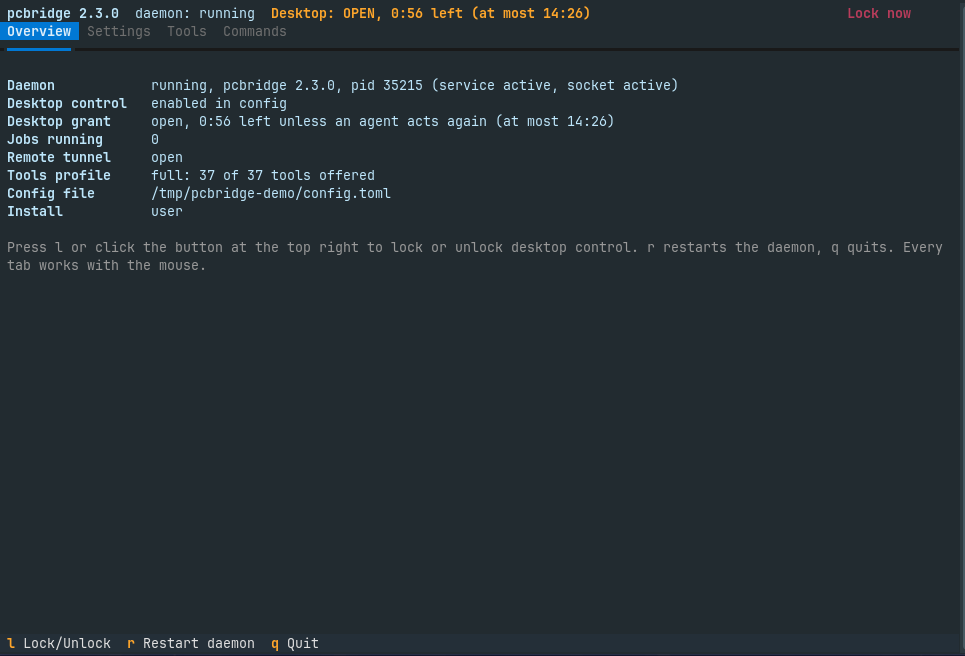
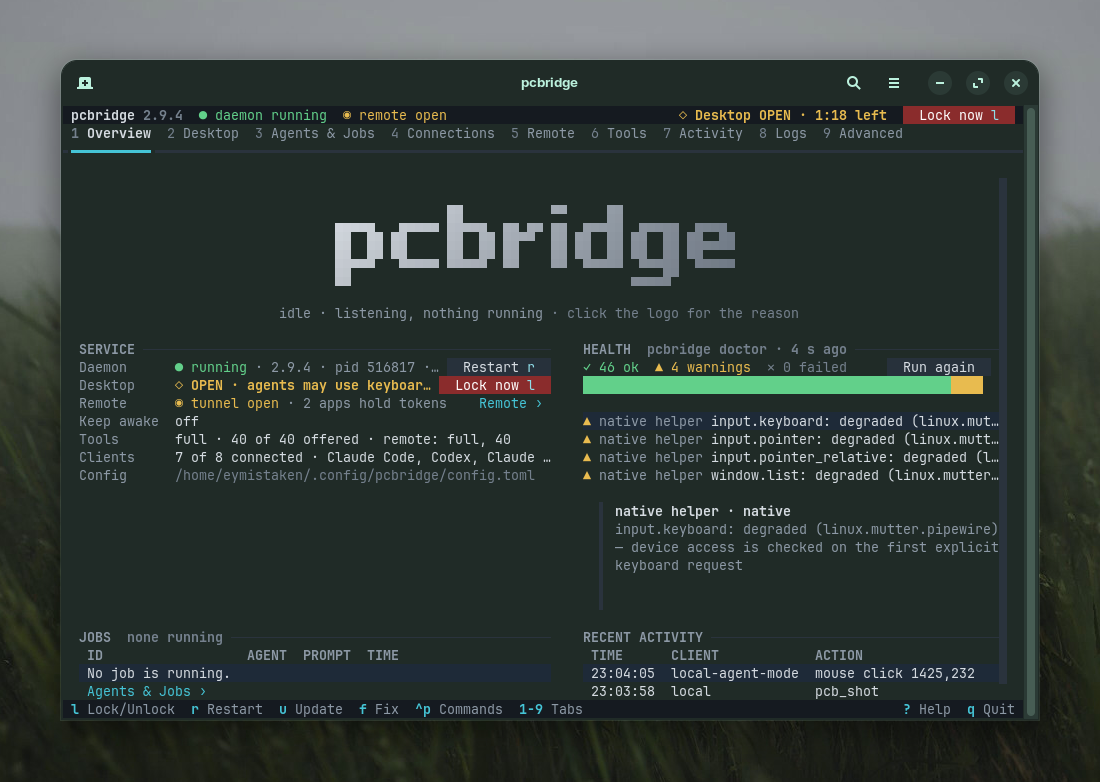
docs: the README shows the setup screen and the terminal UI
Four pictures taken on the reference desktop: the setup screen's welcome,
its install rows and its last screen, and the terminal UI's Overview. The
Install section describes the setup screen; the two stale pictures of the
old UI, which nothing referenced, are removed.

Changed region(s): [[0.0, 0.0, 1.0, 1.0], [0.5596, 0.6402, 0.9016, 0.7317], [0.2176, 0.8232, 0.3731, 0.8537]]

diff --git a/README.md b/README.md
@@ -87,14 +87,36 @@ git clone https://github.com/Eymistaken/Pcbridge.git && cd Pcbridge && ./install
 ```
 
 The script checks the wheel's sha256, offers a pcbridge-only Python when
-the system's is older than 3.12, and hands over to `pcbridge setup`, which
-detects the distribution, desktop and session, shows one plan (packages
-only for what will work here, OCR as an option) and asks once. To read the
-script before running it, see [docs/install.md](docs/install.md).
-`pcbridge setup` writes the config, enables the socket and service,
-installs the GNOME extension (on Plasma: authorizes the native helper for
-KWin screenshots), registers Claude Code, Codex and Claude
-Desktop, and checks that a fresh client works. Details:
+the system's is older than 3.12 (an arrow-key menu on a terminal), and
+hands over to `pcbridge setup`. To read the script before running it, see
+[docs/install.md](docs/install.md).
+
+On a terminal, `pcbridge setup` is a screen of its own. A bridge across the
+top grows a plank per step, from "this pc" to the agents, and every choice
+is taken with the arrow keys, space and Enter, or the mouse:
+
+![The setup screen's welcome: what setup found on this computer](docs/images/setup-welcome.png)
+
+It detects the distribution, desktop and session and offers packages only
+for what will work here, with OCR ticked as Recommended. It ticks Claude
+Code, Codex, Claude Desktop and any client already connected, and shows
+everything it will do, with the exact sudo command, before Install. Then
+each step is a row with its progress and the last thing it did: the config,
+the socket and service, the GNOME extension (on Plasma: the native helper's
+permission for KWin screenshots), the clients, and a check that a fresh
+client gets every tool. The sudo password goes to `sudo` itself, never to
+pcbridge.
+
+![The install step: one row per step, each with its time and result](docs/images/setup-install.png)
+
+Where typing `pcbridge` would find nothing (Arch, for example), setup offers
+to put `~/.local/bin` on `PATH`, backed up and undoable. The last screen
+names the clients it connected and says what to do next:
+
+![The last screen: the connected clients and the next steps](docs/images/setup-ready.png)
+
+`--yes`, `--plain` and a run without a terminal print the steps instead.
+Everything setup changes is backed up with a `ROLLBACK.md`. Details:
 [docs/install.md](docs/install.md).
 
 ## Quick start
@@ -120,6 +142,8 @@ grant notification's "Lock now" on Plasma.
 
 `pcbridge` alone in a terminal opens it: nine tabs, `1` to `9`, with its own
 palette over the terminal's background, mouse and keyboard.
+
+![The terminal UI's Overview: the live logo, the service, health with fixes, jobs and activity](docs/images/tui-overview.png)
 
 - **The bar at the top** shows the daemon, the tunnel and the desktop grant
   on every tab. Its button unlocks (with a duration menu) or locks; `l`
